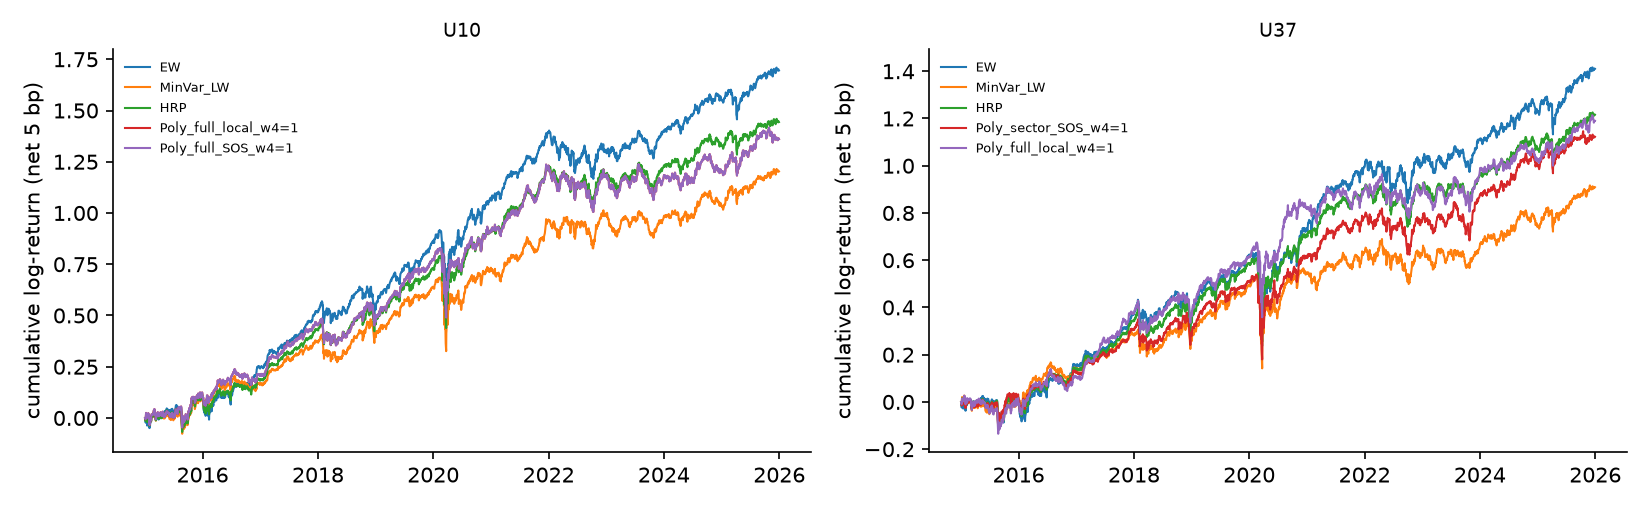
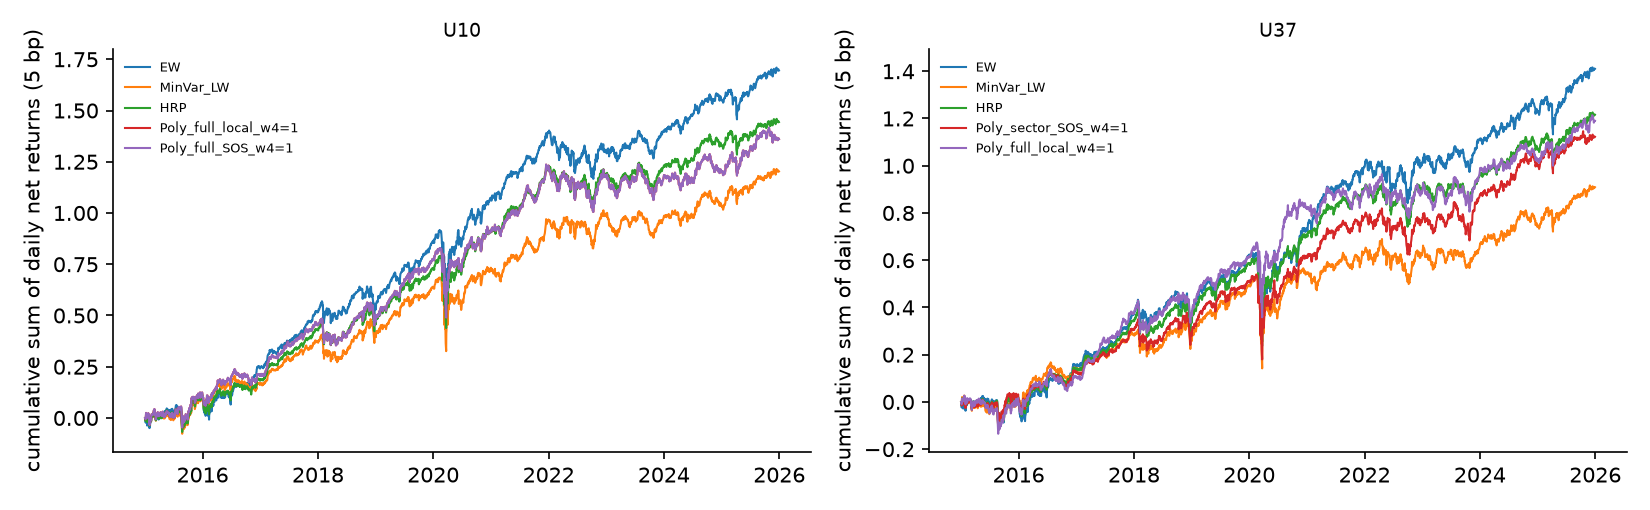
describe the turnover and cost of experiment c exactly

diff --git a/experiments/summarize_exp_c.py b/experiments/summarize_exp_c.py
@@ -57,7 +57,7 @@ def main():
     cols = list(rets.columns)
     out_lines = ["# Experiment C summary (generated by experiments/summarize_exp_c.py)", "",
                  f"Rebalances: {len(rows)} ({rows[0]['date']} .. {rows[-1]['date']}); evaluation window ends {rets.index[-1].date()}. "
-                 "Protocol: experiments/PROTOCOL_C.md. Universe is fixed ex post (survivorship bias); costs are one-way bps on traded notional.", ""]
+                 "Protocol: experiments/PROTOCOL_C.md. Universe is fixed ex post (survivorship bias); costs are bps per unit of traded notional (buys and sells both counted).", ""]
     metrics, series, tests, model = [], {}, [], []
     for U in ("U10", "U37"):
         tickers = U10 if U == "U10" else cols
@@ -137,7 +137,7 @@ def main():
             if c in t:
                 t[c] = t[c].map(lambda v: "" if pd.isna(v) else f.format(v))
         out_lines += [f"## Out-of-sample metrics, {U} ({'10 assets, full co-moment model' if U == 'U10' else '37 assets, 9 sectors'})", "",
-                      "Volatility, net return annualised; CVaR 5% daily; turnover = mean one-way turnover per rebalance; Sharpe net of 5 bp (secondary).", "", md(t), ""]
+                      "Volatility, net return annualised; CVaR 5% daily; turnover = mean over rebalances of sum_i |w_target - w_drift| (buys and sells both counted); Sharpe net of 5 bp (secondary).", "", md(t), ""]
     out_lines += ["## SOS versus multi-start local on the estimated polynomial (model objective)", "", md(pd.DataFrame(model).round(6).assign(**{c: pd.DataFrame(model)[c].map("{:.1e}".format) for c in ("lb_excess_median", "lb_excess_max")})), "",
                   "## Price of sparsity (37 assets): full co-moment model evaluated at the sector-model solution", "", md(pd.DataFrame(sp)), "",
                   f"## Tests: {len(T)} pairwise comparisons, all reported; no multiple-comparison correction; intervals are 95% circular-block bootstrap (21 days), Sharpe p-values from the Ledoit-Wolf (2008) studentised bootstrap.", "",
@@ -152,7 +152,7 @@ def main():
             if u == U and (n in ("EW", "MinVar_LW", "HRP") or (n.endswith("w4=1") and ("SOS" in n or "full_local" in n))):
                 ax.plot(dates[: len(n5)], np.cumsum(n5), lw=1, label=n)
         ax.set_title(U, fontsize=9); ax.legend(fontsize=6, frameon=False); ax.spines[["top", "right"]].set_visible(False)
-        ax.set_ylabel("cumulative log-return (net 5 bp)")
+        ax.set_ylabel("cumulative sum of daily net returns (5 bp)")
     fig.tight_layout(); fig.savefig(os.path.join(RES, "figures/exp_c_cumulative.png"), dpi=150); plt.close(fig)
     print("\n".join(out_lines)[:4000])
 

diff --git a/results/exp_c_summary.md b/results/exp_c_summary.md
@@ -1,10 +1,10 @@
 # Experiment C summary (generated by experiments/summarize_exp_c.py)
 
-Rebalances: 132 (2015-01-02 .. 2025-12-01); evaluation window ends 2025-12-30. Protocol: experiments/PROTOCOL_C.md. Universe is fixed ex post (survivorship bias); costs are one-way bps on traded notional.
+Rebalances: 132 (2015-01-02 .. 2025-12-01); evaluation window ends 2025-12-30. Protocol: experiments/PROTOCOL_C.md. Universe is fixed ex post (survivorship bias); costs are bps per unit of traded notional (buys and sells both counted).
 
 ## Out-of-sample metrics, U10 (10 assets, full co-moment model)
 
-Volatility, net return annualised; CVaR 5% daily; turnover = mean one-way turnover per rebalance; Sharpe net of 5 bp (secondary).
+Volatility, net return annualised; CVaR 5% daily; turnover = mean over rebalances of sum_i |w_target - w_drift| (buys and sells both counted); Sharpe net of 5 bp (secondary).
 
 | strategy | ann_vol | cvar5 | max_drawdown | skew | turnover | eff_N | net_ret_5bp | net_ret_10bp | sharpe_5bp | time_per_rebal_s | certified | median_gap | fallback |
 |---|---|---|---|---|---|---|---|---|---|---|---|---|---|
@@ -22,7 +22,7 @@ Volatility, net return annualised; CVaR 5% daily; turnover = mean one-way turnov
 
 ## Out-of-sample metrics, U37 (37 assets, 9 sectors)
 
-Volatility, net return annualised; CVaR 5% daily; turnover = mean one-way turnover per rebalance; Sharpe net of 5 bp (secondary).
+Volatility, net return annualised; CVaR 5% daily; turnover = mean over rebalances of sum_i |w_target - w_drift| (buys and sells both counted); Sharpe net of 5 bp (secondary).
 
 | strategy | ann_vol | cvar5 | max_drawdown | skew | turnover | eff_N | net_ret_5bp | net_ret_10bp | sharpe_5bp | time_per_rebal_s | certified | median_gap | fallback |
 |---|---|---|---|---|---|---|---|---|---|---|---|---|---|

diff --git a/experiments/PROTOCOL_C.md b/experiments/PROTOCOL_C.md
@@ -75,3 +75,9 @@ The polynomial objective is estimated from 756 days of data; third and fourth sa
 (DeMiguel-Garlappi-Uppal 2009: estimated optimal rules rarely beat 1/N out of sample). The most likely result is
 that SOS-global = local (the model is close to convex in these windows), and that neither is distinguishable from the
 simple baselines on volatility/CVaR. That would be reported as is.
+
+## Wording note (2026-10-02, no change to any result)
+
+The cost is `c * sum_i |w_new,i - w_drift,i|`: it is charged on every unit traded, sells and buys both counted, so the reported
+turnover is that same sum (twice the amount bought) and `c` is a cost per unit of traded notional. "One-way" above is a
+loose description of the cost; the code is unchanged. The first rebalance carries no cost.
